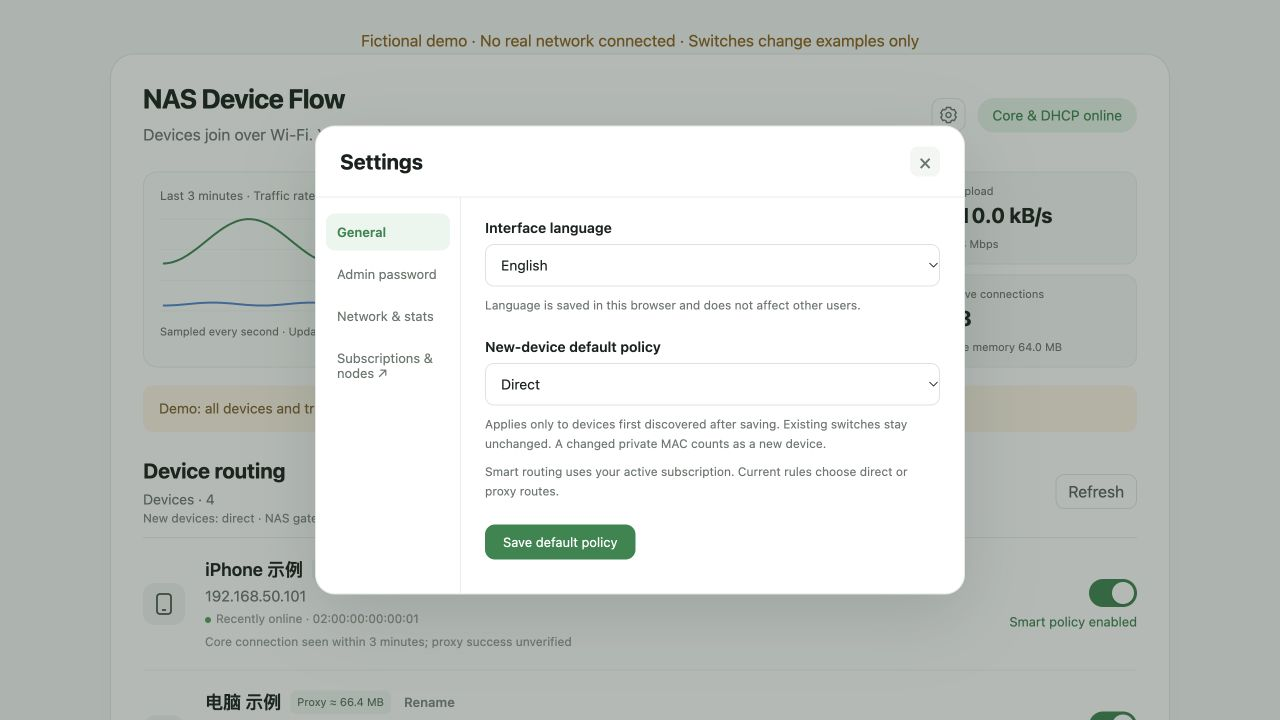
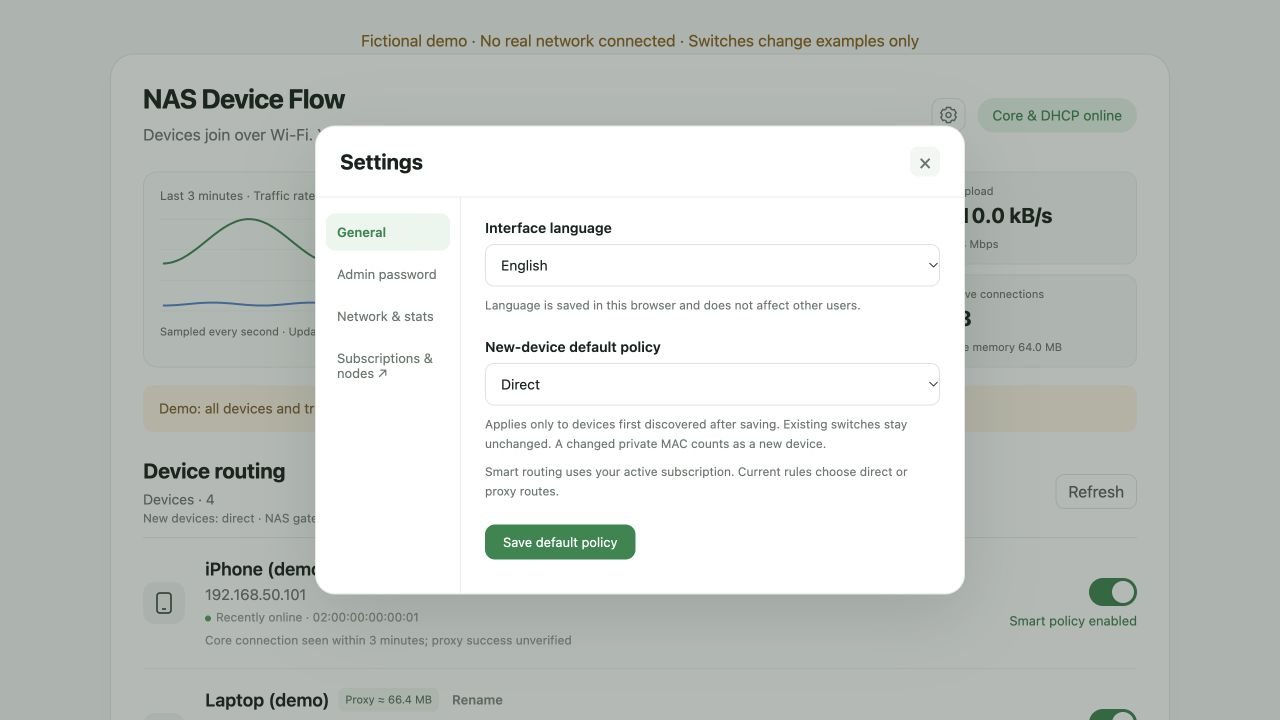
Make project homepage English with Chinese navigation and fictional English demo

diff --git a/scripts/demo.py b/scripts/demo.py
@@ -3,7 +3,7 @@
 import argparse,json,math,time
 from pathlib import Path
 from http.server import BaseHTTPRequestHandler,ThreadingHTTPServer
-DEVICES=[{'mac':'02:00:00:00:00:'+str(i).zfill(2),'ip':'192.168.50.'+str(100+i),'label':name,'name':name,'online':True,'enabled':i<3,'proxy_traffic':{'upload':i*1200000,'download':i*32000000,'total':i*33200000},'dhcp_assigned':True,'gateway_observed':i<3,'proxy_traffic_ok':True,'proxy_traffic_since':time.time()-3600} for i,name in enumerate(['iPhone 示例','电脑 示例','电视 示例','新设备 示例'],1)]
+DEVICES=[{'mac':'02:00:00:00:00:'+str(i).zfill(2),'ip':'192.168.50.'+str(100+i),'label':name,'name':name,'online':True,'enabled':i<3,'proxy_traffic':{'upload':i*1200000,'download':i*32000000,'total':i*33200000},'dhcp_assigned':True,'gateway_observed':i<3,'proxy_traffic_ok':True,'proxy_traffic_since':time.time()-3600} for i,name in enumerate(['iPhone (demo)','Laptop (demo)','TV (demo)','New device (demo)'],1)]
 PREFERENCES={'new_device_proxy':False}
 class Demo(BaseHTTPRequestHandler):
  def log_message(self,*args):pass

diff --git a/README.md b/README.md
@@ -1,62 +1,75 @@
-# NAS Device Flow
+# 🧭 NAS Device Flow
 
-在网页中为每台设备打开或关闭智能分流。设备离开再回来，MAC 不变时保留开关；新设备默认直连。
+**Per-device smart routing for your home network.**
 
-版本：0.1.0-rc.2（预发布）。[English](README.en.md)
+English · [🌐 简体中文](README.zh-CN.md) · [Installation guide](docs/installation.en.md) · [Releases](https://github.com/Azusagawa0409/nas-device-flow/releases)
 
-![虚构设备演示，未连接真实网络](docs/images/demo.png)
+Give each device a direct or smart-routing switch. See its proxy traffic, manage subscriptions, and keep everyday controls in one small web panel.
 
-本地演示：`python3 scripts/demo.py`，打开 http://127.0.0.1:9088/。仅修改示例，不读取部署凭据。
+After DHCP setup, clients can join Wi-Fi with automatic IP and DNS. The panel runs on your Linux NAS alongside Mihomo; both services are defined in the same Docker Compose file.
 
-## 能做什么
+![Fictional device demo; no real network connected](docs/images/demo.png)
 
-- 自动收集 DHCP、邻居和 mDNS 设备信息，支持手动命名。
-- 按设备启用国内直连、其他流量按订阅规则代理。设备开关优先显示。
-- 展示核心实时上下行、连接数、趋势图，以及每台设备采样累计的代理流量。
-- 添加、切换和更新 Clash/Mihomo YAML 订阅，切换失败尝试恢复配置。
+## ✨ What you can do
 
-这是控制面板加 Mihomo 的 Linux Docker 部署方案。与 OpenClash、官方绿联软件及路由器厂商没有隶属关系。路由器型号识别取决于适配器返回的信息，不能保证识别所有设备。
+- **Control each device.** Choose direct access or smart routing, with preferences retained while its MAC stays the same.
+- **See network activity.** Live upload/download rates, a traffic chart, active connections and sampled proxy usage per device.
+- **Manage subscriptions.** Add, switch and refresh Clash/Mihomo YAML subscriptions.
+- **Choose your defaults.** A settings gear holds Chinese/English selection, the new-device default policy, admin password changes and connection details.
+- **Find your devices.** DHCP, neighbor records and mDNS provide discovery and names. Optional router adapters can add device information.
 
-## 部署
+New devices default to direct access. You can change this to smart routing in Settings; existing switches stay unchanged. A changed private MAC counts as a new device and follows that default, even if its name is familiar.
 
-需要 Linux NAS、Docker Compose、可用 macvlan 的有线接口，以及可设置 DHCP 的主路由。所有客户端与 NAS 处于同一局域网。
+Language selection is saved in your browser. Routing rules and DNS are configured separately: the initial China-direct / other-destinations-proxy rules reflect the original mainland-China setup.
+
+## 👀 Try the demo
+
+```sh
+python3 scripts/demo.py
+```
+
+Open http://127.0.0.1:9088/. Devices and traffic are fictional. The demo does not read deployment credentials or change your network.
+
+## 🚀 Deploy on a Linux NAS
+
+You need Linux Docker Compose, a wired interface that supports macvlan, and a main router whose DHCP service you can configure. Clients and the NAS must share the same LAN.
 
 ```sh
 python3 -m venv .venv
 .venv/bin/pip install -r requirements.txt
 cp examples/settings.json config.local.json
-# 编辑 config.local.json：网段、上级网关、空闲核心/面板 IP、基础设施和 DHCP 地址池
+# Edit LAN addresses and panel_origin for your network.
+# Replace eth0 below with your NAS's actual wired interface.
 .venv/bin/python scripts/initialize.py --settings config.local.json --parent eth0
+
 docker compose config --quiet
 docker compose up -d --build
 ```
 
-初始化会交互读取新面板密码与订阅，生成私有 runtime 和 .env，不启动 DHCP。先按[部署说明](docs/installation.md)用一台测试设备验收，再切换 DHCP。不要直接在现有网络上照抄示例 IP。
+Initialization asks you to set and confirm an admin password and enter your subscription URL. The Mihomo API key is generated separately. Private credentials and device records stay in ignored runtime files.
 
-无需 macOS 或 Windows 客户端，设备通过浏览器管理。Docker Desktop 的 macvlan 不支持这两种系统，第一版只提供 Linux 服务端。[Docker 平台说明](https://docs.docker.com/engine/network/drivers/macvlan/)
+DHCP starts **off**. Follow the [installation and recovery guide](docs/installation.en.md), test one client, then complete the DHCP handover. Existing clients may need to forget and rejoin Wi-Fi once to replace an old lease.
 
-## 验证范围
+macOS, Windows, phones and tablets use the browser as clients. The gateway service runs on Linux; Docker Desktop does not provide this macvlan deployment. [Docker platform documentation](https://docs.docker.com/engine/network/drivers/macvlan/)
 
-原运行版已在绿联 DXP4800、UGOS Pro、聚合网口和Huawei TC7102（固件 10.0.5.61 SP3C30）环境使用。发布候选的通用初始化与 Compose 需要新环境试装验收，不能把原运行环境验证等同于所有 NAS 兼容。
+## 🧪 Project status
 
-华为适配器针对已验证固件；OpenWrt ubus 和 MikroTik REST 仅有模拟测试，默认关闭路由器适配器。见[兼容说明](docs/compatibility.md)。
+This is an experimental prerelease. The original setup is running on a UGREEN DXP4800 with UGOS Pro, a bonded interface and a Huawei TC7102. Source tests and isolated container/DHCP checks cover the generalized package; a fresh networked installation on another LAN still needs validation. OpenWrt and MikroTik device-name adapters have mock tests only.
 
-## 数据含义
+A switch means a policy is configured. It does not prove the client is using the NAS gateway or that a website is reachable. See [connection diagnostics](docs/diagnostics.md) and [compatibility notes](docs/compatibility.md).
 
-MB 使用十进制换算，1 MB = 1,000,000 字节。核心累计在核心重启后归零。设备代理流量从首次启用采样开始，保存到 runtime；短连接和停机期间可能漏计，仅供观察。图表统计经过核心的直连和代理流量，不能代表全局域网吞吐或套餐带宽。[详细说明](docs/metrics.md)
+IPv4 only, with no automatic failover if the NAS stops. Public IPv6 can bypass IPv4 rules. Keep the panel and core API on your LAN.
+
+Traffic uses decimal units: 1 MB = 1,000,000 bytes. Per-device totals are sampled, persisted estimates, not subscription billing. Charts describe traffic through Mihomo, not all LAN traffic. See [metric definitions](docs/metrics.md).
+
+## 🤝 Contribute
 
 ```sh
 .venv/bin/python -m unittest discover -s tests -v
 ```
 
-[贡献指南](CONTRIBUTING.md) · [安全边界](SECURITY.md) · [发布检查](docs/release-readiness.md)
+[Report an issue](https://github.com/Azusagawa0409/nas-device-flow/issues) with your NAS, Linux, Docker and router versions. Use fictional IP/MAC examples and redact credentials and logs. Hardware compatibility reports are welcome; distinguish real-device results from mocks.
 
-## 许可证
+[Contributing](CONTRIBUTING.md) · [Security](SECURITY.md) · [Release checks](docs/release-readiness.md)
 
-自己的面板代码采用 MIT，见 LICENSE。Mihomo、dnsmasq、PyYAML 等依赖保留各自许可，见 THIRD_PARTY_NOTICES.md。
-
-开关开启表示策略已配置，不代表设备已接入或网站必然可访问。只有实际使用 NAS 核心网关/DNS 的客户端才受控；多网卡电脑需核对当前出网接口。见[接入诊断](docs/diagnostics.md)。
-
-自动网络接入与设备身份分开：设备 IP/DNS 可保持自动，MAC 不变时保留策略；私人 MAC 改变会出现新设备，默认直连，不根据同名自动继承代理。
-
-面板密码在初始化时设置并二次确认，至少16字符；核心 API 密钥单独随机生成。目前支持登录、退出及失败限制，没有网页修改密码或重置向导。网页目前是中文，中文/English切换和地区分流预设为后续方向，尚未实现。默认国内直连规则及国内DNS针对中国大陆环境，不代表适用于所有地区。
+Our controller and web panel use the [MIT license](LICENSE). Mihomo and system packages retain their own licenses; see [third-party notices](THIRD_PARTY_NOTICES.md). This project is independent of OpenClash, UGREEN and router vendors.

diff --git a/README.en.md b/README.en.md
@@ -1,70 +1,7 @@
-# NAS Device Flow
+# 🧭 NAS Device Flow
 
-A small web panel I built to turn smart routing on or off for individual devices on my home LAN. New devices default to direct access. Preferences follow the MAC address when an IP changes.
+The English project page is now the default [README](README.md).
 
-[中文](README.md) | [Installation and recovery](docs/installation.en.md)
+[🌐 English](README.md) · [简体中文](README.zh-CN.md) · [Installation guide](docs/installation.en.md)
 
-![Fictional demo; no real network connected](docs/images/demo.png)
-
-## What it does
-
-- Discovers devices through DHCP, neighbor records and mDNS; supports manual names.
-- Sends enabled devices through domestic-direct / proxy routing rules while leaving other devices direct.
-- Shows core upload/download rates, connection count and sampled per-device proxy usage.
-- Adds, switches and refreshes Clash/Mihomo YAML subscriptions.
-
-This is a Linux Docker controller with a separate Mihomo process. It is not an OpenClash or router vendor product. The UI is currently Chinese; the demo uses fictional devices.
-
-## Status
-
-**0.1.0-rc.2 is an experimental prerelease.** The original running setup was used on a UGREEN DXP4800 with UGOS Pro, a bonded interface and a Huawei TC7102 (firmware 10.0.5.61 SP3C30). The generalized installer has passed 64 tests, Compose validation, an isolated image build, and offline startup/login checks. A fresh networked installation with DHCP cutover has not yet been validated. OpenWrt and MikroTik name adapters have mock tests only.
-
-Linux Docker with macvlan is required for gateway deployment. macOS and Windows use the browser as clients; Docker Desktop cannot provide this macvlan gateway. [Docker documentation](https://docs.docker.com/engine/network/drivers/macvlan/)
-
-## Try the fictional demo
-
-```sh
-python3 scripts/demo.py
-```
-
-Open http://127.0.0.1:9088/. It does not load runtime credentials or change networking. Switches only change the in-memory examples.
-
-## Install
-
-Read the installation/recovery guide before changing DHCP. Choose unused addresses in your own LAN, preserve a direct management path to your router, and test one client first.
-
-```sh
-python3 -m venv .venv
-.venv/bin/pip install -r requirements.txt
-cp examples/settings.json config.local.json
-# Edit all LAN addresses and panel_origin for your network.
-.venv/bin/python scripts/initialize.py --settings config.local.json --parent eth0
-docker compose config --quiet
-docker compose up -d --build
-```
-
-Initialization asks for a new panel password and a subscription URL. Credentials and device records live in ignored runtime files. DHCP is OFF by default; the core API key is random and separate from the panel password.
-
-This version handles IPv4 only. Public IPv6 may bypass routing. There is no automatic failover when the NAS or core stops. Do not expose the panel or core ports to the Internet.
-
-## Traffic units
-
-1 MB = 1,000,000 bytes. Core totals reset on core restart. Device proxy totals are sampled deltas, persisted approximately every 30 seconds. Short-lived connections and downtime can be missed; these figures are not billing data. The graphs describe traffic through the core, not the whole LAN or purchased bandwidth.
-
-## Development
-
-```sh
-.venv/bin/python -m unittest discover -s tests -v
-```
-
-Report reproducible issues with NAS/Linux/Docker/router versions and fictional IP/MAC examples. Never upload runtime, subscription URLs, passwords or unredacted logs. Compatibility information is welcome; please distinguish hardware tests from mocks.
-
-## License
-
-Our controller and page use MIT. Mihomo and system packages retain their own licenses. See [third-party notices](THIRD_PARTY_NOTICES.md).
-
-An enabled switch means the policy is configured, not that the client is attached or a destination is reachable. Only clients actually using the NAS core gateway/DNS follow these rules. Check the active interface on multi-NIC computers. See [connection diagnostics](docs/diagnostics.md).
-
-Automatic network configuration is separate from device identity. With the same MAC, preferences persist; a changed private MAC creates a new default-direct device. Names do not grant automatic proxy authorization.
-
-The panel password is set and confirmed during initialization (16+ characters). The core API key is independently generated. Login/logout and failed-login limiting are implemented; there is no in-page password change or reset wizard. Browser language selection is planned, not implemented. Default China-direct rules and domestic DNS reflect the original mainland-China setup, not a universal regional preset.
+This file keeps existing links working. Both interface languages ship in the same package.

diff --git a/README.zh-CN.md b/README.zh-CN.md
@@ -1,0 +1,75 @@
+# 🧭 NAS Device Flow
+
+**在一个网页里，控制每台设备的智能分流。**
+
+[🌐 English](README.md) · 简体中文 · [部署说明](docs/installation.md) · [发布版本](https://github.com/Azusagawa0409/nas-device-flow/releases)
+
+给手机、电脑、平板分别打开或关闭分流，查看设备代理流量，管理订阅。日常最常用的设备开关放在主页面，其他选项收进小齿轮设置。
+
+完成 DHCP 接管后，设备保持自动 IP/DNS，输入 Wi-Fi 密码即可接入。面板与 Mihomo 一起运行在 Linux NAS 上，两个服务通过同一份 Docker Compose 部署。
+
+![虚构设备演示，未连接真实网络](docs/images/demo.png)
+
+## ✨ 可以做什么
+
+- **按设备分流。** 选择直连或智能分流；MAC 不变时保留原来的开关。
+- **看网络流量。** 实时上传下载、趋势图、活跃连接，以及每台设备的代理流量采样累计。
+- **管理订阅。** 添加、切换和更新 Clash/Mihomo YAML 订阅。
+- **设置自己的默认值。** 齿轮菜单提供中英切换、新设备默认策略、管理密码修改和接入信息。
+- **发现联网设备。** 通过 DHCP、邻居记录和 mDNS 收集名称，可选路由器适配器补充设备信息。
+
+新设备默认直连，也可以在设置里改为智能分流。修改默认值只影响之后首次发现的设备，已有开关保持不变。私人 MAC 改变也算新设备，按当前默认策略处理，不根据同名自动继承原设备授权。
+
+界面语言保存在当前浏览器。分流规则和 DNS 单独配置；初始化的“中国直连、其他目的地代理”规则来自中国大陆使用场景，海外部署应按当地网络调整。
+
+## 👀 先看演示
+
+```sh
+python3 scripts/demo.py
+```
+
+打开 http://127.0.0.1:9088/。设备与流量都是虚构的，不读取部署凭据，也不修改真实网络。
+
+## 🚀 部署到 Linux NAS
+
+需要 Linux Docker Compose、支持 macvlan 的有线接口，以及可以配置 DHCP 的主路由。NAS 与客户端应位于同一局域网。
+
+```sh
+python3 -m venv .venv
+.venv/bin/pip install -r requirements.txt
+cp examples/settings.json config.local.json
+# 按实际网络填写所有地址和 panel_origin。
+# 将下面的 eth0 换成 NAS 的实际有线接口名。
+.venv/bin/python scripts/initialize.py --settings config.local.json --parent eth0
+
+docker compose config --quiet
+docker compose up -d --build
+```
+
+初始化时设置并二次确认管理密码，再输入订阅链接。Mihomo 核心密钥独立随机生成；密码、订阅和设备记录保存在被 Git 忽略的私有运行目录中。
+
+DHCP 默认关闭。先按[安装与恢复说明](docs/installation.md)验收一台设备，再接管 DHCP。已有设备可能需要一次忽略原 Wi-Fi 并重新加入，才能替换旧租约。
+
+macOS、Windows、手机和平板通过浏览器使用面板。网关服务运行在 Linux 上；Docker Desktop 不支持这套 macvlan 网关部署。[Docker 平台说明](https://docs.docker.com/engine/network/drivers/macvlan/)
+
+## 🧪 当前状态
+
+这是实验性预发布版本。原部署运行在绿联 DXP4800、UGOS Pro、聚合网口和 Huawei TC7102 环境。通用包已有源码测试与隔离容器/DHCP 检查，其他局域网的全新部署仍需实机验收；OpenWrt 与 MikroTik 名称适配器目前只有模拟测试。
+
+开关开启表示策略已配置，不证明设备正在使用 NAS 网关，也不保证网站可达。查看[接入诊断](docs/diagnostics.md)与[兼容说明](docs/compatibility.md)。
+
+目前接管 IPv4，NAS 停机时没有自动故障切换。公网 IPv6 可能绕过 IPv4 分流；面板和核心 API 应仅在局域网内开放。
+
+流量使用十进制单位：1 MB = 1,000,000 字节。设备流量是持久化的采样估算，不能代替订阅账单；图表统计经过 Mihomo 的流量，不代表全局域网总流量。查看[统计定义](docs/metrics.md)。
+
+## 🤝 一起完善
+
+```sh
+.venv/bin/python -m unittest discover -s tests -v
+```
+
+欢迎[反馈问题](https://github.com/Azusagawa0409/nas-device-flow/issues)或提交兼容报告。附上 NAS、Linux、Docker 和路由器版本，用虚构 IP/MAC 举例，并去掉凭据与敏感日志。请注明结果来自实机还是模拟测试。
+
+[贡献指南](CONTRIBUTING.md) · [安全说明](SECURITY.md) · [发布检查](docs/release-readiness.md)
+
+自己的控制器和网页采用 [MIT 许可证](LICENSE)。Mihomo 和系统组件保留各自许可，见[依赖说明](THIRD_PARTY_NOTICES.md)。本项目与 OpenClash、绿联及路由器厂商无隶属关系。
